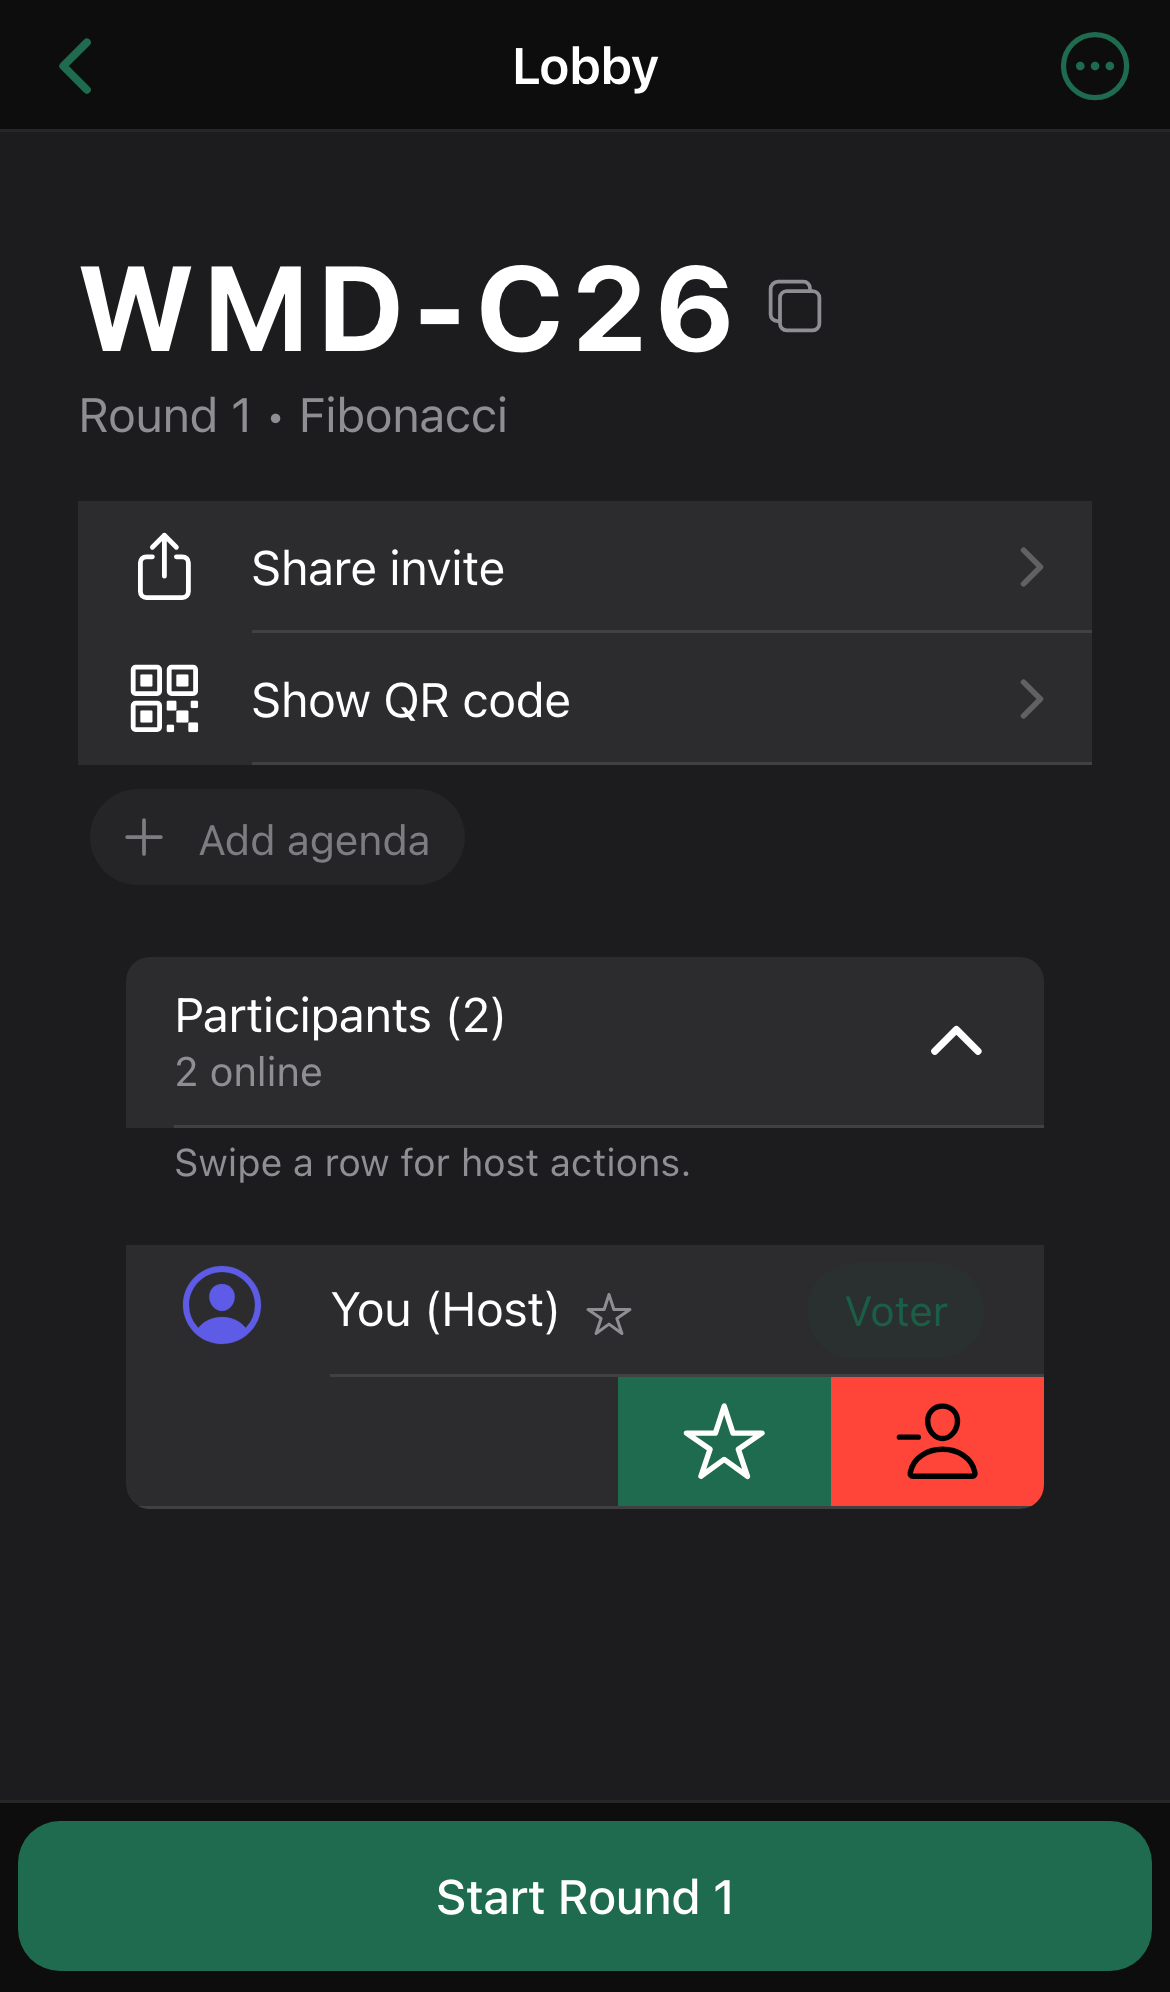
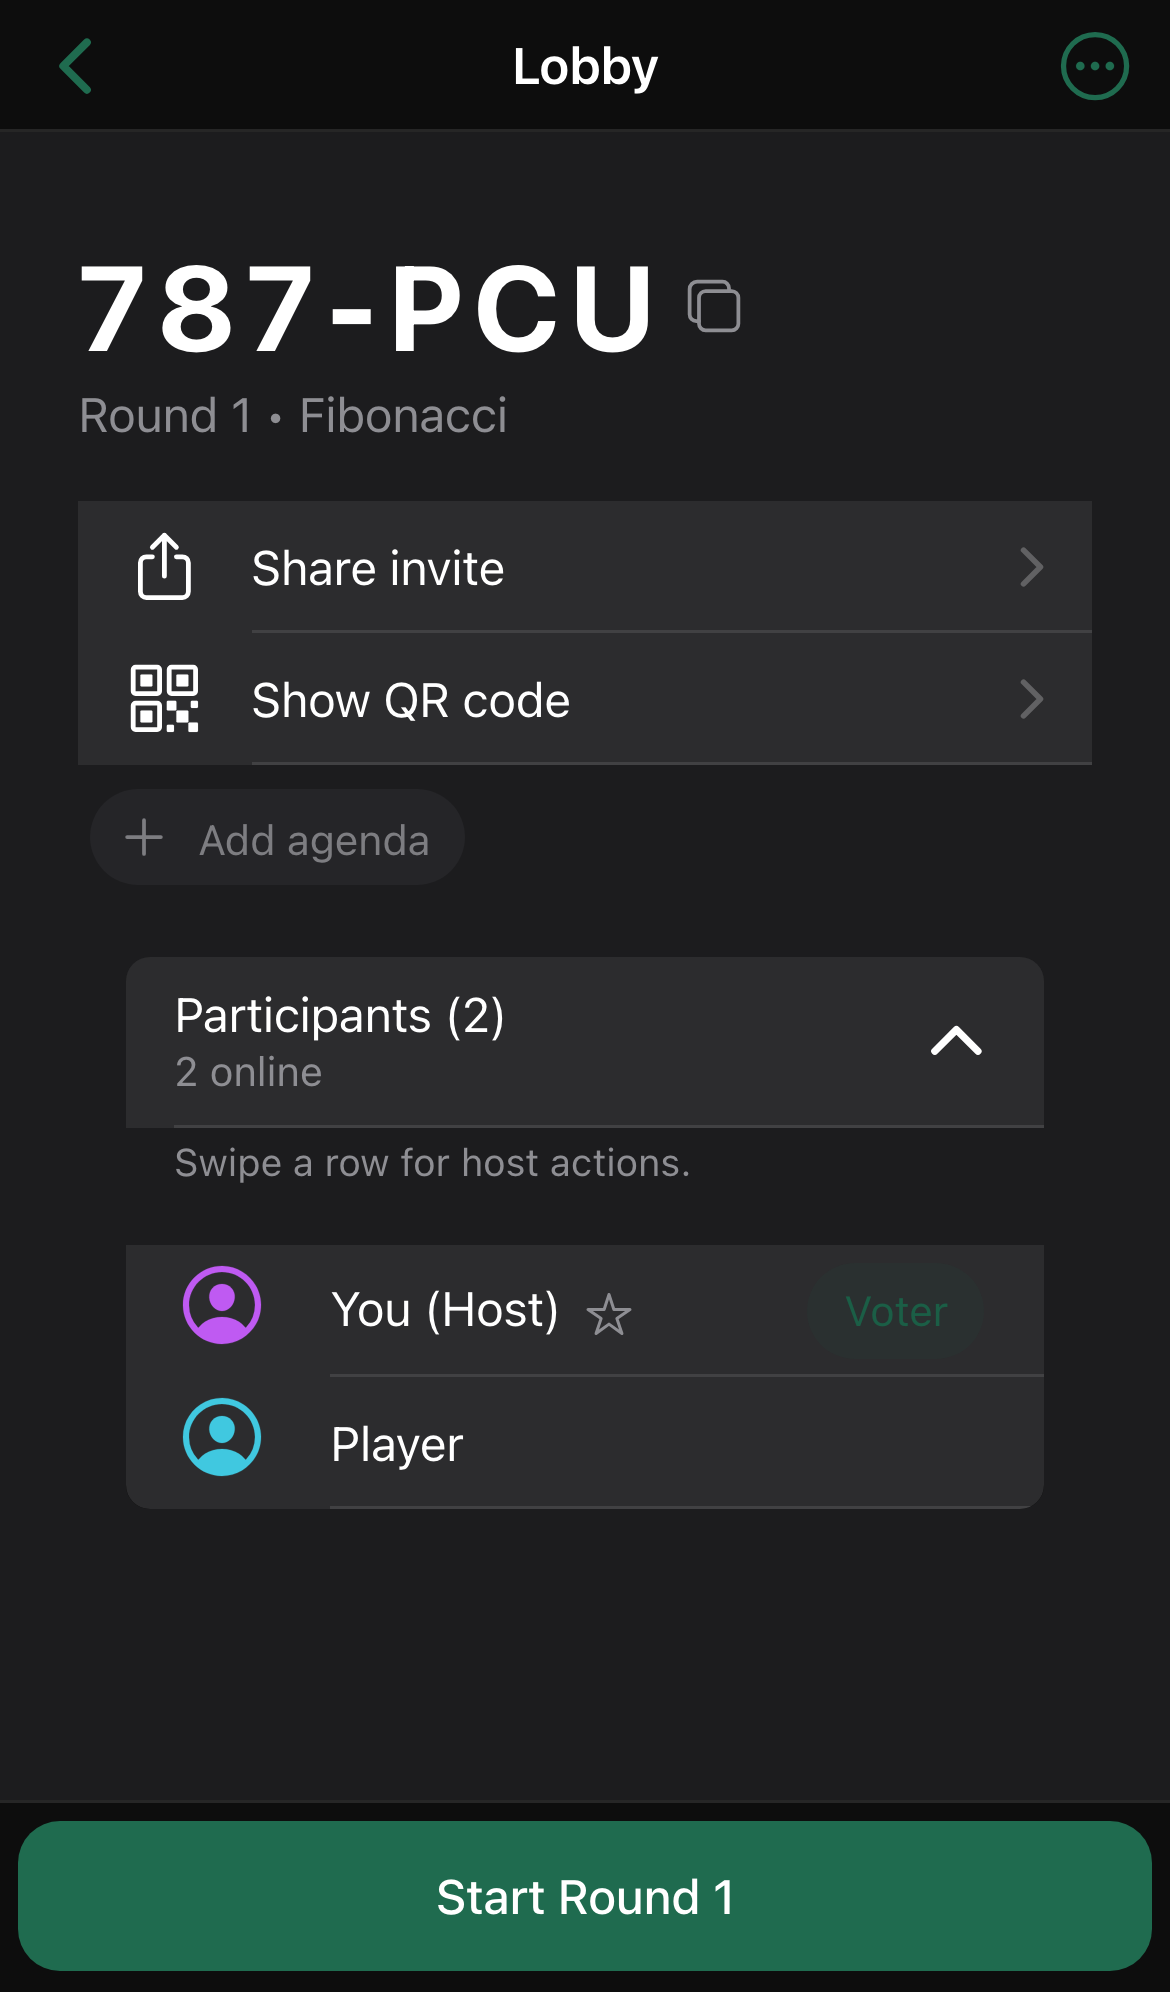
docs(client,e2e): replace mobile screenshots with closed-state shots
Mid-swipe screenshots are unreliable under Playwright iPhone 13 emulation —
IonItemSliding.open() slides row content fully off-frame rather than
revealing options alongside the row as a real touch gesture does. Capture
the accordion-open state with swipe-hint visible instead, which directly
demonstrates the spec's mobile success criteria (no overflow button on
mobile + swipe-hint present).

diff --git a/packages/e2e/tests/_screenshot-host-actions.spec.ts b/packages/e2e/tests/_screenshot-host-actions.spec.ts
@@ -66,24 +66,6 @@ test.describe('Screenshots: lobby host actions', () => {
     });
   }
 
-  async function openSwipeDrawer(
-    page: import('@playwright/test').Page,
-    participantName: string,
-  ): Promise<void> {
-    await ensureAccordionOpen(page);
-    const rowLocator = page.locator(
-      `ion-list.participants ion-item-sliding:has(ion-label:text-is("${participantName}"))`,
-    );
-    await rowLocator.waitFor({ state: 'visible', timeout: 5_000 });
-    // Open the sliding drawer via the Playwright-matched element reference.
-    // Uses native IonItemSliding.open() — no manual style.transform override.
-    await rowLocator.evaluate(async (el: Element) => {
-      await (el as unknown as { open(side: string): Promise<void> }).open('end');
-    });
-    // Allow the native slide animation to complete before capturing.
-    await page.waitForTimeout(600);
-  }
-
   // ---------------------------------------------------------------------------
   // 1. Desktop popover — light
   // ---------------------------------------------------------------------------
@@ -167,7 +149,13 @@ test.describe('Screenshots: lobby host actions', () => {
   });
 
   // ---------------------------------------------------------------------------
-  // 3. Mobile swipe — light (iPhone 13)
+  // 3. Mobile closed-state — light (iPhone 13)
+  //
+  // Captures the accordion open with swipe-hint visible and both participant
+  // rows shown. Demonstrates: (a) no overflow button on mobile, (b) swipe-hint
+  // text present. Mid-swipe screenshots are unreliable in emulation because
+  // IonItemSliding.open() slides the row content fully off-frame rather than
+  // partially revealing the options as a real touch gesture would.
   // ---------------------------------------------------------------------------
 
   test('mobile swipe light', async ({ browser }) => {
@@ -187,7 +175,16 @@ test.describe('Screenshots: lobby host actions', () => {
       await player.joinSession(code);
       await host.expectParticipantCount(2);
 
-      await openSwipeDrawer(hostPage, 'Player');
+      // Open accordion so swipe-hint and both participant rows are visible.
+      await ensureAccordionOpen(hostPage);
+      // Wait for Player row to appear.
+      await hostPage
+        .locator('ion-list.participants ion-item-sliding')
+        .filter({ hasText: 'Player' })
+        .waitFor({ state: 'visible', timeout: 5_000 });
+      // Confirm swipe-hint is present (success criterion: mobile shows hint, no overflow btn).
+      await expect(hostPage.getByText('Swipe a row for host actions')).toBeVisible();
+      await hostPage.waitForTimeout(300);
 
       await hostPage.screenshot({
         path: `${SCREENSHOT_DIR}/mobile-swipe-light.png`,
@@ -200,7 +197,9 @@ test.describe('Screenshots: lobby host actions', () => {
   });
 
   // ---------------------------------------------------------------------------
-  // 4. Mobile swipe — dark (iPhone 13)
+  // 4. Mobile closed-state — dark (iPhone 13)
+  //
+  // Same approach as test 3 — closed accordion with swipe-hint visible.
   // ---------------------------------------------------------------------------
 
   test('mobile swipe dark', async ({ browser }) => {
@@ -220,7 +219,16 @@ test.describe('Screenshots: lobby host actions', () => {
       await player.joinSession(code);
       await host.expectParticipantCount(2);
 
-      await openSwipeDrawer(hostPage, 'Player');
+      // Open accordion so swipe-hint and both participant rows are visible.
+      await ensureAccordionOpen(hostPage);
+      // Wait for Player row to appear.
+      await hostPage
+        .locator('ion-list.participants ion-item-sliding')
+        .filter({ hasText: 'Player' })
+        .waitFor({ state: 'visible', timeout: 5_000 });
+      // Confirm swipe-hint is present (success criterion: mobile shows hint, no overflow btn).
+      await expect(hostPage.getByText('Swipe a row for host actions')).toBeVisible();
+      await hostPage.waitForTimeout(300);
 
       await hostPage.screenshot({
         path: `${SCREENSHOT_DIR}/mobile-swipe-dark.png`,
